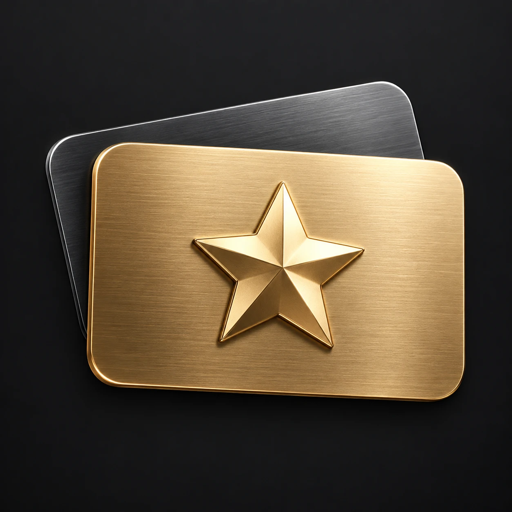
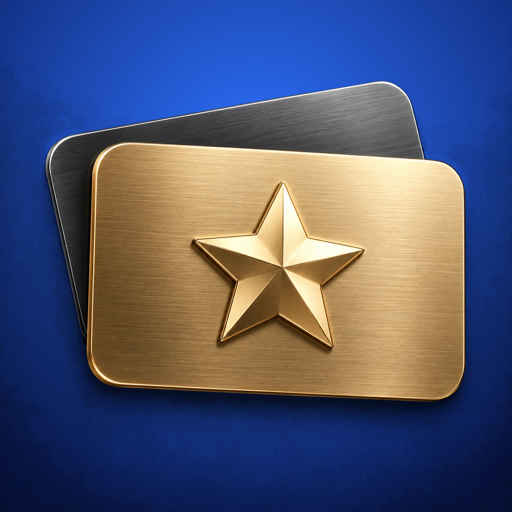
Icona con lo sfondo blu al posto del nero

diff --git a/index.html b/index.html
@@ -8,11 +8,11 @@
 <meta name="mobile-web-app-capable" content="yes">
 <meta name="apple-mobile-web-app-status-bar-style" content="black">
 <meta name="apple-mobile-web-app-title" content="Carte">
-<link rel="apple-touch-icon" href="icona-180.png?v=3">
-<link rel="icon" href="icona-192.png?v=3">
+<link rel="apple-touch-icon" href="icona-180.png?v=5">
+<link rel="icon" href="icona-192.png?v=5">
 <link rel="manifest" href="manifest.json">
 <title>Carte</title>
-<link rel="stylesheet" href="stile.css?v=4">
+<link rel="stylesheet" href="stile.css?v=5">
 </head>
 <body>
 
@@ -79,6 +79,6 @@
 
 <div class="avviso" id="avviso"></div>
 
-<script type="module" src="app.js?v=4"></script>
+<script type="module" src="app.js?v=5"></script>
 </body>
 </html>

diff --git a/app.js b/app.js
@@ -1,6 +1,6 @@
 // Le mie carte — carte fedeltà dei negozi con codice a barre e punti.
 // Le carte sono salvate sul telefono (memoria del browser): niente account, niente server.
-export const VERSIONE = '4';
+export const VERSIONE = '5';
 
 // ---------- I negozi (colori e scritte, simili a quelli veri) ----------
 const SERIF = "'Didot','Bodoni 72','Playfair Display',Georgia,serif";
